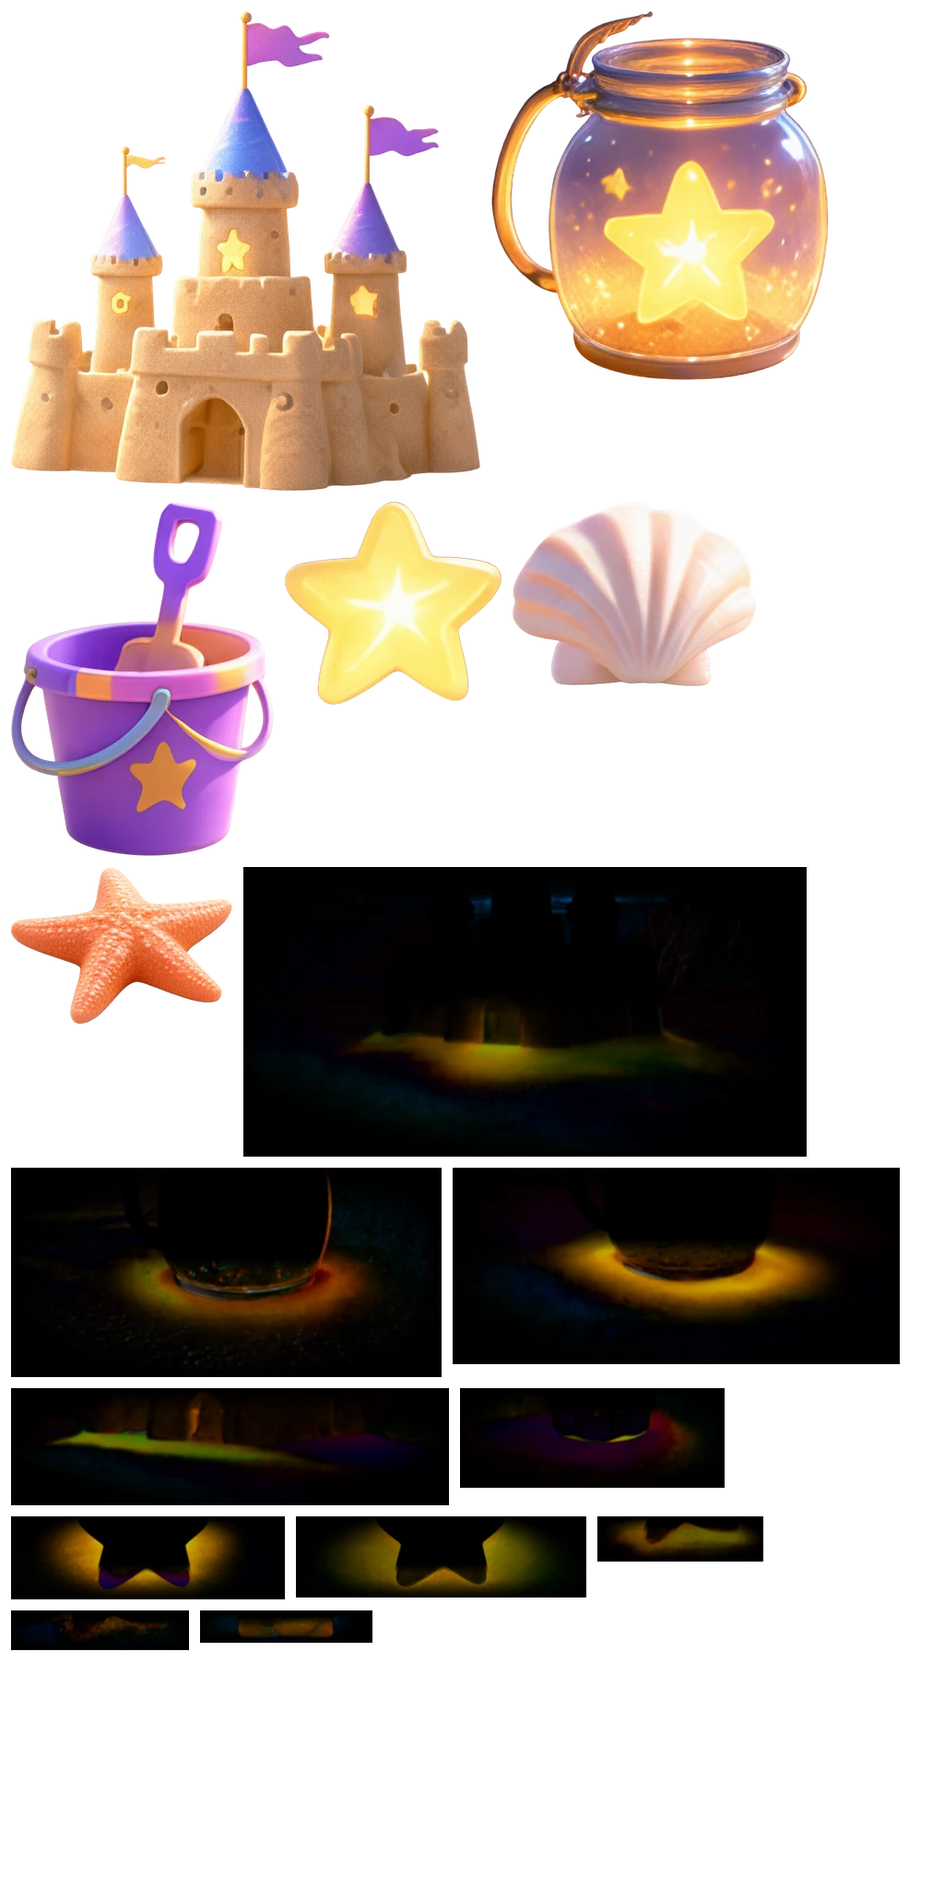
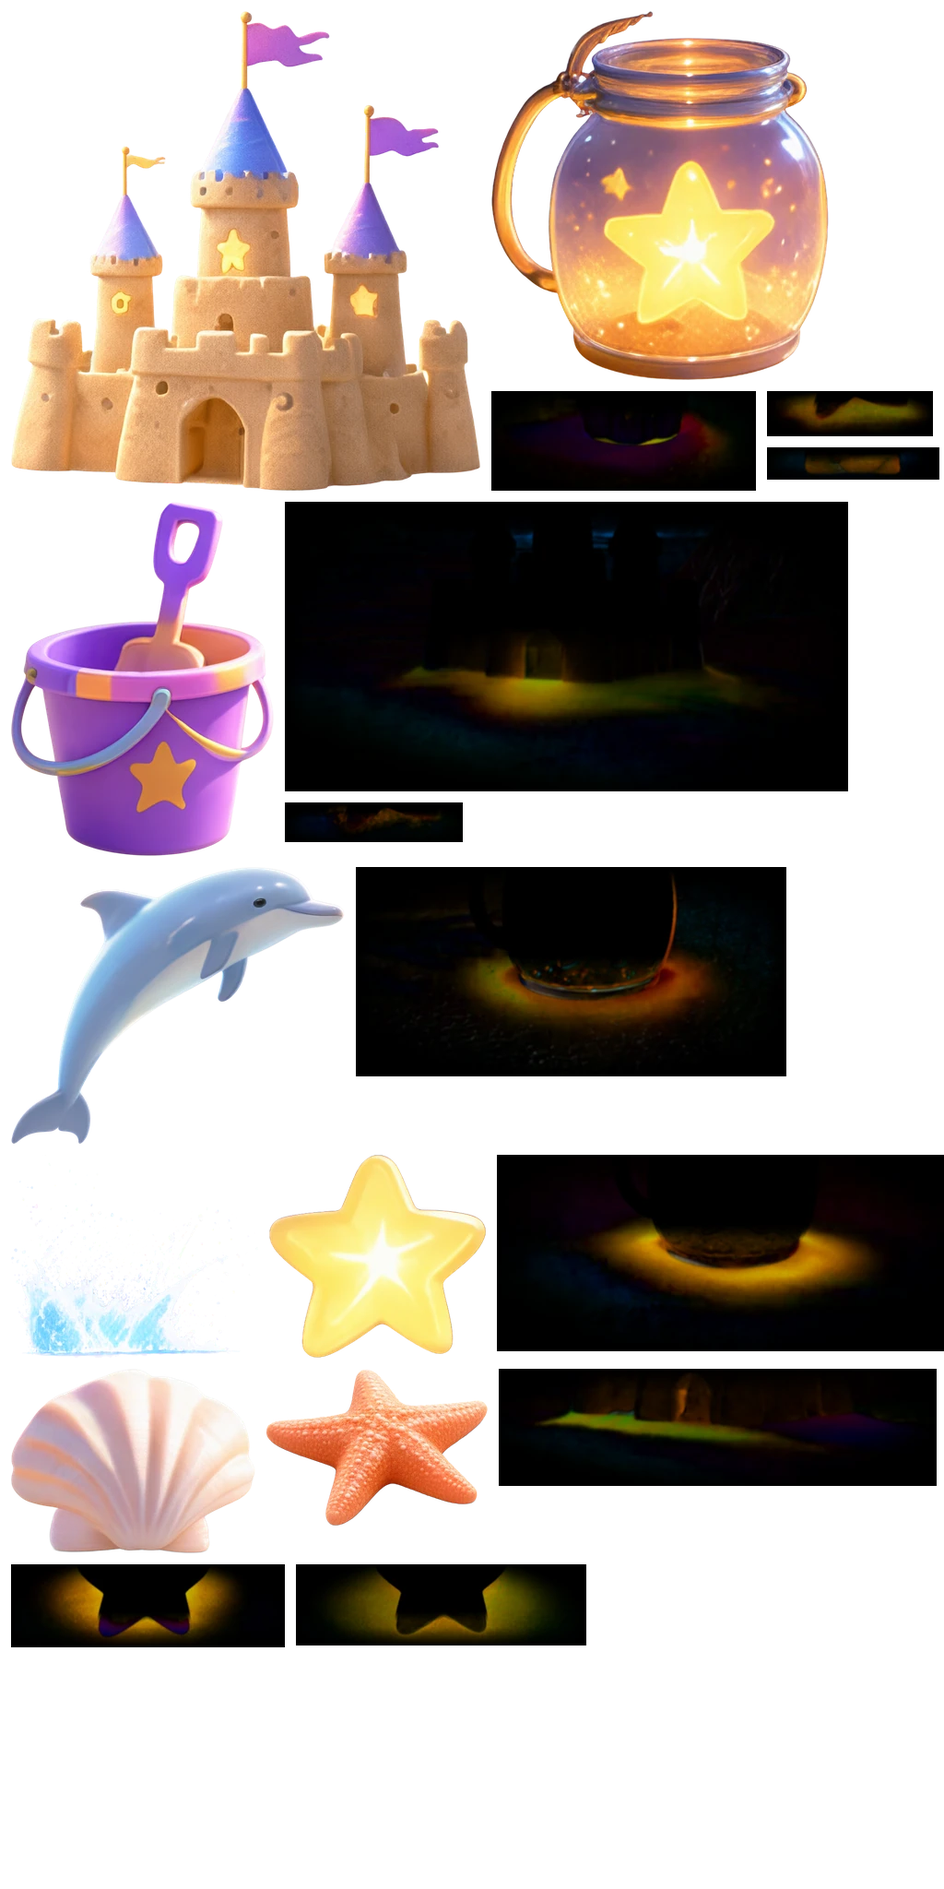
Beach final step: dolphins leap by day, fireworks at night
With 4 letter friends on the beach the sea comes alive:
- Dolphins (Qwen-drawn from the concept) leap out of the sea every few
  seconds, sometimes with a little one following: drawn in WebGL behind
  everything on the beach, sized by distance, cut off below the water
  line, with a splash where they leave and re-enter the water.
- At night fireworks go up: a rising spark, then one of four bursts
  (fireworks.jpg, on black, made see-through once on load), whistle and
  boom. No particles: one picture per burst.
- Tap the sea for a dolphin, the night sky for a firework.
- Props atlas repacked with the dolphin and splash (PROPS_V 5); the
  fireworks sheet loads on the first visit to the beach; sw v13.

Claude-Session: https://claude.ai/code/session_01DbJ88k3r6dRuTMzJnhHBmx

diff --git a/index.html b/index.html
@@ -455,8 +455,9 @@ void main(){float d=length(vL);float a=smoothstep(1.0,0.25,d)*vC.a;gl_FragColor=
 // beach props: premultiplied picture; at night darkened to moonlight (aC.y) with lit windows from the emission map (aC.z)
 const VS_PR = `attribute vec2 aPos;attribute vec2 aB;attribute vec4 aC;uniform vec2 uView;varying vec2 vUV;varying vec4 vC;
 void main(){vUV=aB;vC=aC;gl_Position=vec4(aPos.x/uView.x*2.-1.,1.-aPos.y/uView.y*2.,0.,1.);}`;
-const FS_PR = `precision mediump float;varying vec2 vUV;varying vec4 vC;uniform sampler2D uP;uniform sampler2D uE;uniform float uNight;uniform float uTime;
-void main(){if(vC.w>0.5){gl_FragColor=vec4(texture2D(uP,vUV).rgb,texture2D(uE,vUV).r)*vC.x;return;}
+const FS_PR = `precision mediump float;varying vec2 vUV;varying vec4 vC;uniform sampler2D uP;uniform sampler2D uE;uniform float uNight;uniform float uTime;uniform vec2 uRes;uniform float uDpr;
+void main(){if(vC.w>1.5){if((uRes.y-gl_FragCoord.y)/uDpr>vC.y)discard;gl_FragColor=texture2D(uP,vUV)*vC.x;return;}
+if(vC.w>0.5){gl_FragColor=vec4(texture2D(uP,vUV).rgb,texture2D(uE,vUV).r)*vC.x;return;}
 vec4 c=texture2D(uP,vUV);if(c.a<0.004)discard;float e=texture2D(uE,vUV).r*vC.z*(0.88+0.12*sin(uTime*2.3+vUV.x*9.0));
 vec3 col=mix(c.rgb,c.rgb*vec3(0.56,0.58,0.9),uNight*vC.y)+e*uNight*vec3(1.0,0.78,0.40)*c.a;gl_FragColor=vec4(col,c.a)*vC.x;}`;
 // sprites are drawn upright around their ground point: uBB = (ground x, y on the tray, the same point on screen), uBK = scale there
@@ -665,7 +666,7 @@ function initGL() {
   progBg = mkProg(VS_TRI, COMMON + FS_BG, UBG, COMMON_U);
   progWave = mkProg(VS_TRI, COMMON + FS_WAVE, UWV, COMMON_U);
   progSh = mkProg(VS_SH, FS_SH, USH, ['uView']);
-  progPr = mkProg(VS_PR, FS_PR, UPR, ['uView', 'uP', 'uE', 'uNight', 'uTime']);
+  progPr = mkProg(VS_PR, FS_PR, UPR, ['uView', 'uP', 'uE', 'uNight', 'uTime', 'uRes', 'uDpr']);
   progSp = mkProg(VS_SP, (deriv ? '#extension GL_OES_standard_derivatives : enable\n' : '#define NO_DERIV\n') + COMMON + FS_SP, USP,
     COMMON_U.concat(['uView', 'uBB', 'uBK', 'uCol', 'uMat', 'uDents', 'uSlot', 'uFace', 'uR', 'uClip', 'uFaceOn', 'uP', 'uSeed', 'uCols', 'uNCol']));
   bufTri = gl.createBuffer(); gl.bindBuffer(gl.ARRAY_BUFFER, bufTri); gl.bufferData(gl.ARRAY_BUFFER, new Float32Array([-1, -1, 3, -1, -1, 3]), gl.STATIC_DRAW);
@@ -707,7 +708,7 @@ function upProps(i) { const im = PIMG[i], t = i ? glTexE : glTexP; if (!gl || !t
   gl.texImage2D(gl.TEXTURE_2D, 0, gl.RGBA, gl.RGBA, gl.UNSIGNED_BYTE, im); gl.pixelStorei(gl.UNPACK_PREMULTIPLY_ALPHA_WEBGL, false);
   gl.generateMipmap(gl.TEXTURE_2D); gl.texParameteri(gl.TEXTURE_2D, gl.TEXTURE_MIN_FILTER, gl.LINEAR_MIPMAP_LINEAR); }
 // bump PROPS_V whenever the props pictures change: a new address can't be served stale from a cache next to a newer page
-const PROPS_V = 4;
+const PROPS_V = 5;
 PIMG.forEach((im, i) => { im.onload = () => { propsReady++; upProps(i); }; im.src = (i ? 'beach/props_e.png' : 'beach/props.webp') + '?v=' + PROPS_V; });
 // snapshot of the sand (colour + height) taken on arriving at the beach: afterwards only changes since then are drawn over the picture
 let snapA8 = null, snapW = 0, snapH = 0;
@@ -766,7 +767,7 @@ function renderGL() {
   // props: one upload; each is drawn just before the first sprite standing in front of it
   let pj = 0; const pv = pq.length ? propVerts(pq) : null;
   const propsUpTo = (ymax, sp) => { const j0 = pj; while (pj < pq.length && pq[pj].by <= ymax) pj++; if (pj === j0) return;
-    gl.useProgram(progPr); gl.uniform2f(UPR.uView, W, H); gl.uniform1f(UPR.uNight, Math.max(night, nightBoost)); gl.uniform1f(UPR.uTime, T); gl.uniform1i(UPR.uP, 6); gl.uniform1i(UPR.uE, 7);
+    gl.useProgram(progPr); gl.uniform2f(UPR.uView, W, H); gl.uniform1f(UPR.uNight, Math.max(night, nightBoost)); gl.uniform1f(UPR.uTime, T); gl.uniform1i(UPR.uP, 6); gl.uniform1i(UPR.uE, 7); gl.uniform2f(UPR.uRes, glc.width, glc.height); gl.uniform1f(UPR.uDpr, glc.height / H);
     gl.bindBuffer(gl.ARRAY_BUFFER, bufPr); gl.bufferData(gl.ARRAY_BUFFER, pv, gl.DYNAMIC_DRAW); attribs(3);
     gl.vertexAttribPointer(0, 2, gl.FLOAT, false, 32, 0); gl.vertexAttribPointer(1, 2, gl.FLOAT, false, 32, 8); gl.vertexAttribPointer(2, 4, gl.FLOAT, false, 32, 16);
     gl.drawArrays(gl.TRIANGLES, pq[j0].v0, pq[pj - 1].v0 + pq[pj - 1].vn - pq[j0].v0);
@@ -1711,7 +1712,7 @@ function enterBeach() {
   Beach.tgt = 1; Beach.arrived = false; Beach.then = null;
   if (T - Beach.snapT > 3) Beach.snapped = false;   // no fresh snapshot from a letter: take one during the tilt
   magic = null; closePicker(); Snd.whoosh(false); homeBtn.classList.add('show'); ttx.classList.remove('show');
-  vidStart(nightTarget ? 'night' : 'day');
+  vidStart(nightTarget ? 'night' : 'day'); loadFireworks();
 }
 function leaveBeach(then) {
   if (!Beach.tgt && Beach.v <= 0) { if (then) then(); return; }
@@ -1726,10 +1727,10 @@ function arriveBeach() { // everyone jumps for joy on the sand
 
 // ---------- beach props: placed as in the concept painting, each with a day and a night form; one more step for each letter friend on the beach (4 = all) ----------
 // where each picture sits in beach/props.webp
-const PATL = { w: 1024, h: 2048, r: { castle: [12, 12, 509, 520], jar: [533, 12, 366, 400], bucket: [12, 544, 285, 384], star: [309, 544, 235, 220], shell: [556, 544, 265, 200], starfish: [12, 940, 240, 170] } };
+const PATL = { w: 1024, h: 2048, r: {"castle": [12, 12, 509, 520], "jar": [533, 12, 366, 400], "bucket": [12, 544, 285, 384], "dolphin": [12, 940, 362, 300], "splash": [12, 1252, 268, 220], "star": [292, 1252, 235, 220], "shell": [12, 1484, 265, 200], "starfish": [289, 1484, 240, 170]} };
 // how each prop sits in the sand, day and night (AI-painted into the real beach, kept as "darken the sand" (glow map channel) + "add light" (rgb)):
 // key = prop index + d/n; offset x, y, width, height in prop heights from its foot, then the tile in the atlas
-const CONT = {"3n": [-0.9707, -0.6334, 1.9591, 1.0059, 264, 940, 611, 314], "0n": [-0.9708, -0.6044, 1.9461, 0.9467, 12, 1266, 467, 227], "4n": [-0.9903, -0.5144, 2.0223, 0.8874, 491, 1266, 485, 213], "3d": [-0.7422, -0.2017, 1.5216, 0.4082, 12, 1505, 475, 127], "0d": [-0.6456, -0.2581, 1.2464, 0.4708, 499, 1505, 287, 108], "2n": [-1.0975, -0.5919, 2.2488, 0.6816, 12, 1644, 297, 90], "1n": [-1.1985, -0.5876, 2.3885, 0.6689, 321, 1644, 315, 88], "4d": [-0.8371, -0.2995, 1.767, 0.485, 648, 1644, 180, 49], "2d": [-0.9773, -0.2954, 1.8968, 0.4252, 12, 1746, 193, 43], "1d": [-0.7928, -0.2536, 1.5619, 0.2943, 217, 1746, 187, 35]};
+const CONT = {"3n": [-0.9707, -0.6334, 1.9591, 1.0059, 309, 544, 611, 314], "0n": [-0.9708, -0.6044, 1.9461, 0.9467, 386, 940, 467, 227], "4n": [-0.9903, -0.5144, 2.0223, 0.8874, 539, 1252, 485, 213], "3d": [-0.7422, -0.2017, 1.5216, 0.4082, 541, 1484, 475, 127], "0d": [-0.6456, -0.2581, 1.2464, 0.4708, 533, 424, 287, 108], "2n": [-1.0975, -0.5919, 2.2488, 0.6816, 12, 1696, 297, 90], "1n": [-1.1985, -0.5876, 2.3885, 0.6689, 321, 1696, 315, 88], "4d": [-0.8371, -0.2995, 1.767, 0.485, 832, 424, 180, 49], "2d": [-0.9773, -0.2954, 1.8968, 0.4252, 309, 870, 193, 43], "1d": [-0.7928, -0.2536, 1.5619, 0.2943, 832, 485, 187, 35]};
 // st: step; d / n: day and night picture (the bucket becomes a star jar, shells and starfish become glowing stars, the castle lights up);
 // x, y: where its foot stands in the painting (fraction of the screen; y from the waterline 0.5 down to the bottom 1); leftOf: just left of that button instead of x;
 // hd / hn: height (fraction of the screen's short side); tn: how much the night darkens the night picture; emit: lit windows; glow: night halo
@@ -1767,7 +1768,7 @@ function placeProps() {
   }
 }
 function updateProps(dt) {
-  placeProps();
+  placeProps(); updateSea(dt);
   const want = Math.min(PROP_STEPS, letterCount()), live = Beach.tgt && Beach.v >= 1 && BV > 0.99;
   if (!live) Props.st = want, Props.wait = 0;
   else if (want !== Props.st) {   // on the beach: a new step pops in a moment after the new friend appears; collected friends take theirs away
@@ -1806,12 +1807,21 @@ function propsToDraw() {
     const rd = PATL.r[p.d], wd = p.hd * R * rd[2] / rd[3];
     out.push({ p, nt, bx: p.wx, by: p.wy, sx: PX, sy: PY, sc, a, sr: Math.max(wd, ww) * 0.4 / (p.K1 * 1.25), imgs, wg: p.wig > 0 ? Math.sin(p.wig * 30) * 0.16 * p.wig / 0.6 : 0, v0: 0, vn: 0 });
   }
-  return out.sort((a, b) => a.by - b.by);
+  out.sort((a, b) => a.by - b.by);
+  const sq = seaQuads(); if (sq.length) out.unshift({ sea: sq, by: -1e9, v0: 0, vn: 0 });
+  return out;
 }
 let prBuf = new Float32Array(16 * 6 * 8);
 function propVerts(pq) {
-  let n = 0; const need = pq.length * 4 * 6 * 8; if (prBuf.length < need) prBuf = new Float32Array(need);
+  let n = 0; const need = (pq.length * 4 + (pq[0] && pq[0].sea ? pq[0].sea.length : 0)) * 6 * 8; if (prBuf.length < need) prBuf = new Float32Array(need);
   for (const q of pq) { q.v0 = n / 8;
+    if (q.sea) {   // dolphins (cut off below the water line) and their splashes, behind everything on the beach
+      for (const d of q.sea) { const r = PATL.r[d.img], cs = Math.cos(d.rot), sn = Math.sin(d.rot), fl = d.flip ? -1 : 1;
+        const u0 = r[0] / PATL.w, v0 = r[1] / PATL.h, u1 = (r[0] + r[2]) / PATL.w, v1 = (r[1] + r[3]) / PATL.h;
+        for (const [cx, cy, u, v] of [[-0.5, -d.ay, u0, v0], [0.5, -d.ay, u1, v0], [0.5, 1 - d.ay, u1, v1], [-0.5, -d.ay, u0, v0], [0.5, 1 - d.ay, u1, v1], [-0.5, 1 - d.ay, u0, v1]]) {
+          const lx = cx * d.w * fl, ly = cy * d.h;
+          prBuf[n++] = d.x + lx * cs - ly * sn; prBuf[n++] = d.y + lx * sn + ly * cs; prBuf[n++] = u; prBuf[n++] = v; prBuf[n++] = d.a; prBuf[n++] = d.clip; prBuf[n++] = 0; prBuf[n++] = d.clip ? 2 : 0; } }
+      q.vn = n / 8 - q.v0; continue; }
     for (const [img, a, tint, hf] of q.imgs) { const r = PATL.r[img], hh = hf * Props.R * q.sc, ww = hh * r[2] / r[3];
       const squash = 1 + Math.sin(q.p.wig * 30) * 0.06 * q.p.wig, cs = Math.cos(q.wg), sn = Math.sin(q.wg);
       const u0 = r[0] / PATL.w, v0 = r[1] / PATL.h, u1 = (r[0] + r[2]) / PATL.w, v1 = (r[1] + r[3]) / PATL.h, em = img === 'castle' ? q.p.emit || 0 : 0;
@@ -1841,10 +1851,92 @@ function tapProp(p) {
      castle: () => Snd.chimes([784, 1046.5, 1318.5, 1568], 0.08, 0.1) })[p.snd]();
   sparks(x, y, p.snd === 'castle' ? 10 : 6, baseR * (p.snd === 'castle' ? 1.6 : 0.8), nt ? '#fff3b0' : null);
 }
+// ---------- the sea at the last step: dolphins leap out of it by day, fireworks go up at night ----------
+const Sea = { dol: [], fw: [], dT: 1.5, fT: 0.8 };
+// four bursts on black, 2 x 2, loaded on the first visit to the beach; the black is turned see-through once, on load
+const FWIMG = new Image(); let FWC = null;
+FWIMG.onload = () => { try {
+  const c = document.createElement('canvas'); c.width = FWIMG.naturalWidth; c.height = FWIMG.naturalHeight;
+  const x = c.getContext('2d', { willReadFrequently: true }); x.drawImage(FWIMG, 0, 0);
+  const d = x.getImageData(0, 0, c.width, c.height), q = d.data;
+  for (let i = 0; i < q.length; i += 4) { const a = Math.min(255, Math.max(q[i], q[i + 1], q[i + 2]) * 1.1); if (a < 8) { q[i + 3] = 0; continue; }
+    const k = 255 / a; q[i] = Math.min(255, q[i] * k); q[i + 1] = Math.min(255, q[i + 1] * k); q[i + 2] = Math.min(255, q[i + 2] * k); q[i + 3] = a; }
+  x.putImageData(d, 0, 0); FWC = c; } catch (e) {} };
+const loadFireworks = () => { if (!FWIMG.src) FWIMG.src = 'beach/fireworks.jpg?v=1'; };
+function seaBand() { const [ix, iy, iw, ih] = CAM.img, hY = iy + PIC.hor * ih; return { hY, y0: hY + 0.03 * ih, y1: hY + 0.12 * ih, ih }; }
+const seaOn = () => Props.st >= PROP_STEPS && Beach.tgt && Beach.v >= 1 && BV > 0.99;
+function addDolphin(x, y) {
+  if (Sea.dol.length >= 3) return;
+  const b = seaBand(); y = clamp(y ?? rand(b.y0, b.y1), b.y0, b.y1); const L = (y - b.hY) * 1.25 + 0.065 * Math.min(b.ih, W * 0.62);
+  x = clamp(x ?? rand(W * 0.12, W * 0.88), L, W - L);
+  const dir = x > W / 2 ? -1 : 1;
+  Sea.dol.push({ x, y, L, dir, t: -0.25, dur: rand(1.35, 1.7), sp0: false, sp1: false });
+  if (Math.random() < 0.35 && Sea.dol.length < 3) Sea.dol.push({ x: clamp(x - dir * L * 1.1, L, W - L), y: Math.min(b.y1, y + L * 0.12), L: L * 0.8, dir, t: -0.6, dur: 1.4, sp0: false, sp1: false });   // a little one follows
+}
+function addFirework(x, y) {
+  if (Sea.fw.length >= 6) return;
+  const b = seaBand(), r = rand(0.12, 0.19) * b.ih, top = Math.max(CAM.img[1], 0) + r * 0.75;
+  x = clamp(x ?? rand(W * 0.1, W * 0.9), r * 0.6, W - r * 0.6); y = clamp(y ?? rand(top, b.hY - r * 0.9), top, b.hY - r * 0.5);
+  Sea.fw.push({ x, y, r, k: (Math.random() * 4) | 0, t: 0, rise: rand(0.55, 0.8), x0: x + rand(-20, 20), y0: b.hY + 4, boom: false });
+  Snd.whistle();
+}
+function updateSea(dt) {
+  const on = seaOn(), nt = Math.max(night, nightBoost);
+  if (on && nt < 0.4) { Sea.dT -= dt; if (Sea.dT <= 0) { Sea.dT = rand(4, 8); addDolphin(); } }
+  if (on && nt > 0.6) { Sea.fT -= dt; if (Sea.fT <= 0) { Sea.fT = rand(1.2, 2.8); addFirework(); if (Math.random() < 0.3) setTimeout(() => seaOn() && addFirework(), 350); } }
+  if (!BV) { Sea.dol.length = 0; Sea.fw.length = 0; return; }
+  for (let i = Sea.dol.length - 1; i >= 0; i--) { const d = Sea.dol[i]; d.t += dt / d.dur;
+    if (d.t >= 0 && !d.sp0) { d.sp0 = true; Snd.splat(0.3); }
+    if (d.t >= 0.97 && !d.sp1) { d.sp1 = true; Snd.splat(0.4); }
+    if (d.t > 1.6) Sea.dol.splice(i, 1); }
+  for (let i = Sea.fw.length - 1; i >= 0; i--) { const f = Sea.fw[i]; f.t += dt;
+    if (!f.boom && f.t >= f.rise) { f.boom = true; Snd.boom(); }
+    if (f.t > f.rise + 2.2) Sea.fw.splice(i, 1); }
+}
+// tapping the sea (by day) or the sky (at night) once everything is out
+function seaTap(X, Y) {
+  if (!seaOn()) return false; const b = seaBand(); if (Y > b.y1 + 0.03 * b.ih) return false;
+  if (night > 0.5) addFirework(X, Y); else addDolphin(X, Y < b.hY ? undefined : Y);
+  return true;
+}
+function seaQuads() {
+  const out = []; if (!BV || Beach.ov <= 0.01) return out;
+  for (const d of Sea.dol) {
+    const L = d.L, a = Beach.ov;
+    // splashes where it leaves and re-enters the water
+    for (const [tt, x] of [[d.t, d.x], [d.t - 0.97, d.x + d.dir * L * 1.3]]) { if (tt < 0 || tt > 0.6) continue;
+      const k = Math.min(1, tt / 0.12), f = 1 - smooth01((tt - 0.15) / 0.45), sw = L * 0.75, sh = sw * 220 / 268 * (0.35 + 0.65 * k);
+      out.push({ img: 'splash', x, y: d.y + 2, w: sw * (0.8 + 0.2 * k), h: sh, ay: 1, rot: 0, flip: false, a: a * f, clip: 0 }); }
+    if (d.t < 0 || d.t > 1) continue;
+    const t = d.t, hx = d.dir * L * 1.3, cx = d.x + hx * t, cy = d.y - L * 0.1 - 4 * L * 0.72 * t * (1 - t) + L * 0.18;
+    const ang = Math.atan2(-L * 2.9 * (1 - 2 * t), L * 1.3) + 0.82;   // the picture is already leaping up and to the right
+    out.push({ img: 'dolphin', x: cx, y: cy, w: L, h: L * 300 / 362, ay: 0.5, rot: d.dir > 0 ? ang : -ang, flip: d.dir < 0, a: a * Math.min(1, (1 - Math.max(0, night - 0.4) * 2)), clip: d.y + 1 });
+  }
+  return out;
+}
+function drawSeaFx(c) {
+  if (!Sea.fw.length || !FWC) return;
+  c.save(); c.globalCompositeOperation = 'lighter';
+  for (const f of Sea.fw) {
+    if (f.t < f.rise) {   // the rocket going up: a small spark with a short fading tail
+      const u = f.t / f.rise, e = 1 - (1 - u) * (1 - u), x = f.x0 + (f.x - f.x0) * e, y = f.y0 + (f.y - f.y0) * e, ty = y + 26 + 30 * (1 - u);
+      const g = c.createLinearGradient(x, y, x, ty); g.addColorStop(0, 'rgba(255,235,190,0.9)'); g.addColorStop(1, 'rgba(255,200,120,0)');
+      c.strokeStyle = g; c.lineWidth = 2.5; c.beginPath(); c.moveTo(x, y); c.lineTo(x + (f.x0 - f.x) * 0.04, ty); c.stroke();
+      c.globalAlpha = 0.9; c.fillStyle = '#fff6d8'; c.beginPath(); c.arc(x, y, 2.6, 0, TAU); c.fill(); c.globalAlpha = 1; continue; }
+    const u = f.t - f.rise, grow = 1 - Math.pow(1 - Math.min(1, u / 0.55), 3), R = f.r * (0.2 + 0.85 * grow);
+    const al = (u < 0.08 ? u / 0.08 : 1) * (1 - smooth01((u - 0.5) / 1.6)) * (0.85 + 0.15 * Math.sin(u * 40 + f.k)) * Beach.ov;
+    if (al <= 0.01) continue;
+    c.globalAlpha = al; const sx = (f.k % 2) * 512, sy = (f.k >> 1) * 512;
+    c.drawImage(FWC, sx, sy, 512, 512, f.x - R, f.y - R + u * f.r * 0.12, R * 2, R * 2);
+  }
+  c.restore();
+}
+
 // night halos around the glowing props, and the rainbow in the sky once everything is out (2D, over the picture)
 function drawPropsFx(c) {
   if (!BV || Beach.ov <= 0.01) return;
   const nt = Math.max(night, nightBoost);
+  drawSeaFx(c);
   if (nt > 0.02) { c.save(); c.globalCompositeOperation = 'lighter';
     for (const p of PROPS) { if (!p.glow || p.k <= 0 || !p.rect) continue;   // (glow belongs to the night form)
       const [x0, y0, x1, y1] = p.rect, cx = (x0 + x1) / 2, cy = y0 + (y1 - y0) * 0.55, R = Math.max(x1 - x0, y1 - y0) * 0.95 * p.glow;
@@ -2502,6 +2594,7 @@ function onDown(e) {
   if (hitMagic(x, y)) { p.mode = 'none'; ptrs.set(e.pointerId, p); return; }
   const s = nearStroke(x, y) ? null : hitSprite(sx, sy), pr = s || Trace.active ? null : hitProp(sx, sy);
   if (pr) { tapProp(pr); p.mode = 'none'; ptrs.set(e.pointerId, p); return; }
+  if (!s && !Trace.active && seaTap(sx, sy)) { p.mode = 'none'; ptrs.set(e.pointerId, p); return; }
   if (s) { if (s.state === 'peek') { s.reveal(); p.mode = 'none'; } else if (s.ptr) p.mode = 'none'; else { p.mode = 'sprite'; p.s = s; ptrW(p); p.hist[0].x = p.x; p.hist[0].y = p.y; s.grab(p); } }
   else if (Trace.active) traceMove(x, y, x, y);
   ptrs.set(e.pointerId, p);
@@ -2843,7 +2936,7 @@ if (initGL()) {
   for (const id of Book.data.f.slice()) if (GLYPHS[id]) { const p = randSpot(); spawnFriend(id, p.x, p.y, false); }
   requestAnimationFrame(t => { last = t; requestAnimationFrame(loop); });
 }
-window.__game = { PROF, get RS() { return RS; }, get Q() { return Q; }, setQuality, get P() { return P; }, launchFirework, confetti, emojiPop, finishTrace() { if (!Trace.active) return; for (const st of Trace.strokes) { st.done = true; for (const p of st.pts) p.lit = true; } Trace.si = Trace.strokes.length - 1; complete(); }, get sprites() { return sprites; }, spawnAt, startWave, get T() { return T; }, Trace, startTrace, Book, spawnFriend, get magic() { return magic; }, set magicTimer(v) { magicTimer = v; }, Beach, enterBeach, leaveBeach, BVID, Props, PROPS, hitProp, assignPath, unproj: (X, Y) => UNPJ(X, Y), get night() { return night; }, get BV() { return BV; }, proj(x, y) { PJ(x, y); return [PX, PY, PK]; }, hit(X, Y) { const s = hitSprite(X, Y); return s ? (s.isLetter ? s.id : s.mat) : null; }, sprScr(s) { sprBB(s); return [BBA[2], BBA[3], BBA[4]]; } };
+window.__game = { PROF, get RS() { return RS; }, get Q() { return Q; }, setQuality, get P() { return P; }, launchFirework, confetti, emojiPop, finishTrace() { if (!Trace.active) return; for (const st of Trace.strokes) { st.done = true; for (const p of st.pts) p.lit = true; } Trace.si = Trace.strokes.length - 1; complete(); }, get sprites() { return sprites; }, spawnAt, startWave, get T() { return T; }, Trace, startTrace, Book, spawnFriend, get magic() { return magic; }, set magicTimer(v) { magicTimer = v; }, Beach, enterBeach, leaveBeach, BVID, Props, PROPS, Sea, addDolphin, addFirework, hitProp, assignPath, unproj: (X, Y) => UNPJ(X, Y), get night() { return night; }, get BV() { return BV; }, proj(x, y) { PJ(x, y); return [PX, PY, PK]; }, hit(X, Y) { const s = hitSprite(X, Y); return s ? (s.isLetter ? s.id : s.mat) : null; }, sprScr(s) { sprBB(s); return [BBA[2], BBA[3], BBA[4]]; } };
 try { if ('serviceWorker' in navigator && location.protocol === 'https:') navigator.serviceWorker.register('sw.js').catch(() => {}); } catch (e) {}
 })();
 </script>

diff --git a/sw.js b/sw.js
@@ -1,6 +1,6 @@
 // Offline support: always try the network first (so updates arrive), fall back to the cached copy.
-const CACHE = 'sand-sprites-v12';
-const FILES = ['./', './index.html', './manifest.webmanifest', './icon-180.png', './icon-192.png', './icon-512.png', './beach/day.jpg', './beach/night.jpg', './beach/props.webp', './beach/props_e.png'];
+const CACHE = 'sand-sprites-v13';
+const FILES = ['./', './index.html', './manifest.webmanifest', './icon-180.png', './icon-192.png', './icon-512.png', './beach/day.jpg', './beach/night.jpg', './beach/props.webp', './beach/props_e.png', './beach/fireworks.jpg'];
 self.addEventListener('install', e => { e.waitUntil(caches.open(CACHE).then(c => c.addAll(FILES))); self.skipWaiting(); });
 self.addEventListener('activate', e => {
   e.waitUntil(caches.keys().then(ks => Promise.all(ks.filter(k => k !== CACHE).map(k => caches.delete(k)))));

diff --git a/README.md b/README.md
@@ -23,7 +23,7 @@ A rainbow sand-tray game for little kids, made for iPad and touch screens.
 - After each letter or number the sand tray tilts back and fades into a rainbow beach in front of the sea. The beach is a looping video (real waves washing up the sand); the sprites stand on its sand and her letter stays carved in it.
 - Everything still works there: tap, squish, drag and fling the sprites (flick up to toss them into the sky), summon new ones, swirl. Drawing and painting in the sand leaves marks on the beach.
 - Sprites close to the water run away when a wave comes in (timed to the waves in the video). **🌊 Smooth** sends one big sea wave over the beach and washes her marks away.
-- The beach fills up with her letter friends, laid out like the concept painting: 1 friend brings a bucket and spade, 2 a shell and a starfish, 3 a sand castle by the water, 4 a little starfish beside it and a rainbow over the sea. At night each one changes form: the bucket becomes a jar with a glowing star, shells and starfish become glowing stars, the castle's windows light up. Tap them. Collecting the letters into the book clears the beach again.
+- The beach fills up with her letter friends, laid out like the concept painting: 1 friend brings a bucket and spade, 2 a shell and a starfish, 3 a sand castle by the water, 4 a little starfish beside it, a rainbow over the sea, dolphins leaping by day and fireworks at night (tap the sea for a dolphin, the night sky for a firework). At night each one changes form: the bucket becomes a jar with a glowing star, shells and starfish become glowing stars, the castle's windows light up. Tap them. Collecting the letters into the book clears the beach again.
 - **🌙 Night** plays a sunset film: the sun sinks into the sea, then the moon rises over the waterfall, and the beach becomes a moonlit night loop. **☀ Day** plays the sunrise.
 - **🏠 Home** (top centre) goes back to the sand tray. ✏ Write, a tile in the 📖 book, or the beach's own Home button all bring her back to the tray first.
 
